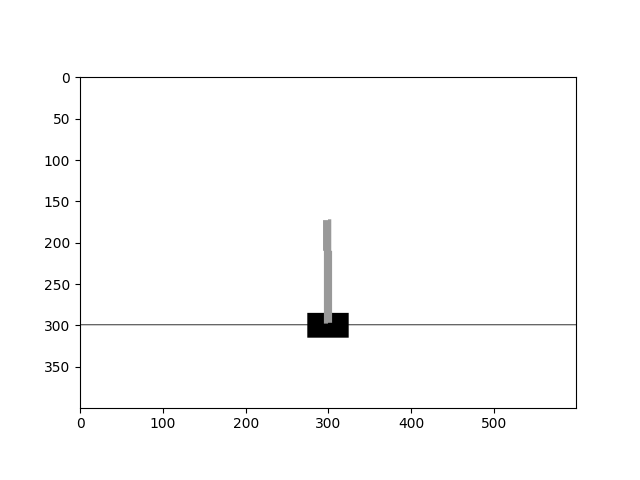
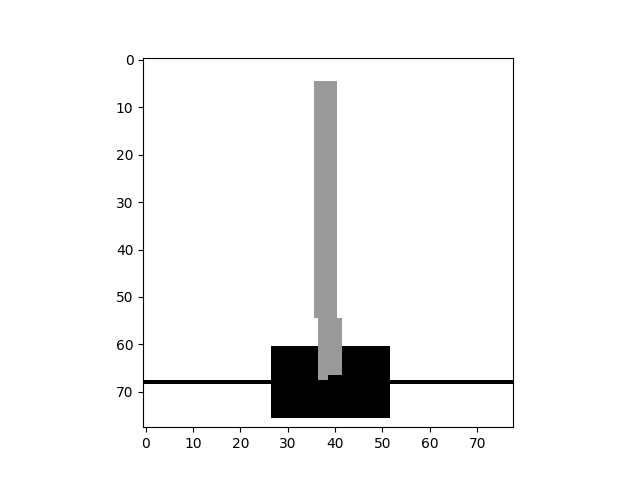
dqn-tf update

diff --git a/algorithms/DQN-tf/dqn.py b/algorithms/DQN-tf/dqn.py
@@ -1,9 +1,62 @@
 import tensorflow as tf
+from replayMemory import Experience
 
-class DQN(object):
-    def __init__(self, image_height, image_width):
-        self.image_height = image_height
-        self.image_width = image_width
+dqn_model = tf.keras.Sequential(
+    [
+        tf.keras.layers.Conv2D(32, (3,3), activation='relu', input_shape=(78, 78, 1)),
+        tf.keras.layers.Conv2D(64, (3,3), activation='relu'),
+        tf.keras.layers.Flatten(),
+        tf.keras.layers.Dense(64, activation='relu'),
+        tf.keras.layers.Dense(2)
+    ]
+)
 
-    def select_action(self, state):
+class DQN(tf.keras.Model):
+    def __init__(self, dqnmodel, batch_size, Gamma=0.9):
+        super(DQN, self).__init__()
+        self.batch_size = batch_size
+        self.gamma = Gamma
+        self.model = dqnmodel
+            
+    def train_step(self, replayMemory):
+        if len(replayMemory) < self.batch_size:
+            return        
         
+        training_set = replayMemory.sample(self.batch_size)
+        # below operation will return Transition(state=(s0,s1...), action=(a0,a1...), next_state=(s'0, s'1...), reward=(r0, r1...))
+        batch = Experience(*zip(*training_set))
+
+        current_state_batch = tf.constant(batch.state)
+        action_batch = tf.constant(batch.action)
+        reward_batch = tf.constant(batch.reward)
+        next_state_batch = tf.constant(batch.next_state)
+        
+        # calculate Q prediction value
+        predict = self.model(current_state_batch)
+        q_eval = tf.gather(predict, action_batch, batch_dims=action_batch.ndim)
+        
+
+        # calculate target Q-a value
+        target = self.model(next_state_batch)
+        q_target = reward_batch + self.gamma * tf.math.reduce_max(target, 1)
+
+        with tf.GradientTape() as tape:
+            y_pred = q_eval 
+            y = q_target
+            # Compute the loss value
+            # (the loss function is configured in `compile()`)
+            loss = self.compiled_loss(y, y_pred, regularization_losses=self.losses)
+
+        # Compute gradients
+        trainable_vars = self.model.trainable_variables
+        gradients = tape.gradient(loss, trainable_vars)
+        # Update weights
+        self.optimizer.apply_gradients(zip(gradients, trainable_vars))
+        # Update metrics (includes the metric that tracks the loss)
+        self.compiled_metrics.update_state(y, y_pred)
+        # Return a dict mapping metric names to current value
+        return {m.name: m.result() for m in self.metrics}
+        
+    #def select_action(self, experience):
+        
+

diff --git a/algorithms/DQN-tf/object_image.py b/algorithms/DQN-tf/object_image.py
@@ -1,7 +1,36 @@
 import gym
+from tensorflow.python.ops.array_ops import NEW_AXIS
+# in this part, we will get the part of cartPole from the whole screen as 
+# the input for our model
 
-env = gym.make('CartPole-v1')
-env.reset() # Initialize env to get the initial state
+def get_screen(env):
+    # get the whole screen with the shape (height, width, rgb_channel)
+    screen = env.render("rgb_array")
+    screen = screen.mean(axis=2) # rgb to gray
+   
+    screen_height, screen_width = screen.shape  
+    screen = screen.reshape(screen_height, screen_width, 1)
+    world_width = env.x_threshold * 2 
+    scale = screen_width / world_width                  
+    cart_width = 50
+    cart_height = 30 
+    pole_length = 2 * env.length
+    size_need = cart_height + scale * pole_length
+    # cart x position
+    cartx = env.state[0] * scale + screen_width / 2 
 
-def find_cartPole():
+    cartPole_screen = screen[int(318-size_need):318, int(cartx-size_need/2) : int(cartx+size_need/2)]
     
+    # cropping to lower resolution with the shape (78, 78)
+    return cartPole_screen[::2, ::2]
+
+if __name__ == '__main__':
+    import matplotlib.pyplot as plt 
+    env = gym.make('CartPole-v1')
+    env.reset() # Initialize env to get the initial state
+
+    plt.imshow(get_screen(), 'gray')
+   
+    #plt.savefig('./demo.png')
+    plt.show()
+

diff --git a/algorithms/DQN-tf/main.py b/algorithms/DQN-tf/main.py
@@ -1,8 +1,35 @@
 from replayMemory import replayMemory
-
-
+from object_image import get_screen
+import gym
+from dqn import DQN, dqn_model
 if __name__ == "__main__":
     # Initialize replay memory D to capacity N
     replayMemory = replayMemory(10000)
     # Initialize action-value function Q with random weights
     
+    env = gym.make('CartPole-v1')
+    
+    agent = DQN(dqn_model, 128)
+    agent.compile(optimizer='rmsprop', loss='mse')
+
+    # play 100 episodes
+    for i in range(100):
+        # at the begining of each episode, reset the env
+        env.reset()
+        current_state = get_screen(env)
+        print(i)
+        total_reward = 0
+        while True:
+            action = 0
+            _, reward, done, _ = env.step(action)
+            total_reward += reward
+            next_state = get_screen(env)
+
+            experience = (current_state, action, reward, next_state)
+            replayMemory.append(current_state, action, reward, next_state)
+            print(len(replayMemory))
+            agent.train_step(replayMemory)
+            if done:
+                break
+            else:
+                current_state = next_state

diff --git a/algorithms/DQN-tf/replayMemory.py b/algorithms/DQN-tf/replayMemory.py
@@ -2,17 +2,20 @@
 # into replay memory at each step the agent play. Sample a batch of tuples from replay memory 
 # to train the neural network. 
 
-from collections import deque        
+from collections import deque, namedtuple   
 import random 
+
+Experience = namedtuple('experience', ('state', 'action', 'reward', 'next_state'))
+
 class replayMemory(object):
     def __init__(self, capacity):
         self.experiences = deque([], capacity)
 
-    def store(self, experience):
-        self.experiences.append(experience)
+    def append(self, *args):
+        self.experiences.append(Experience(*args))
 
-    def sample(self):
-        random.sample(self.experiences, len(self.experiences)/10)
+    def sample(self, batch_size):
+        return random.sample(self.experiences, batch_size)
     
     def __len__(self):
         return len(self.experiences)

diff --git a/algorithms/DQN-tf/README.md b/algorithms/DQN-tf/README.md
@@ -3,3 +3,6 @@
 * **DQN with target network**
 
 Solve the carPole problem using dqn here.
+
+### Preprocessing
+At the first, we need get the input raw image. What we do is to find the part we need and process it as the input for our model. 
